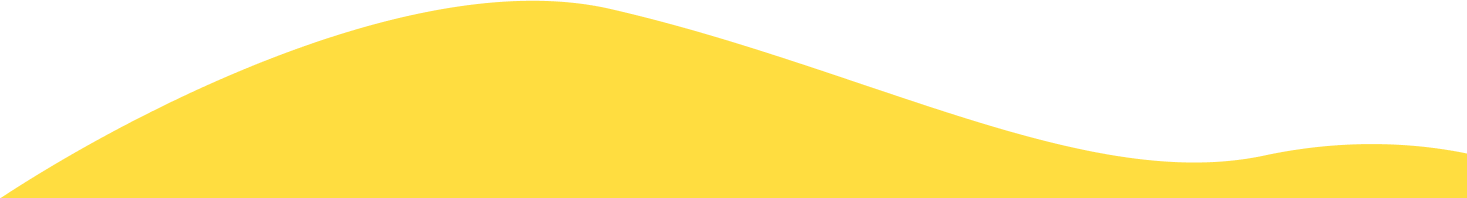
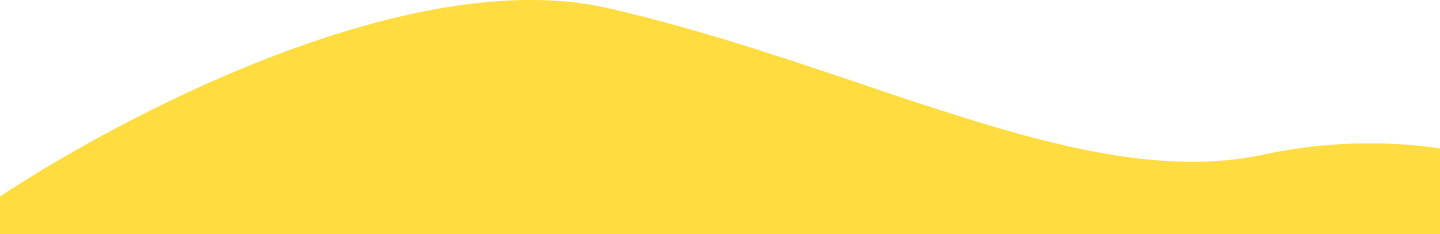
Header social media

diff --git a/src/components/SocialMediaIcons.js b/src/components/SocialMediaIcons.js
@@ -1,0 +1,38 @@
+import React, { Component } from 'react'
+
+import FacebookIcon from "../images/social_media/facebook-icon.svg"
+import InstagramIcon from "../images/social_media/instagram-icon.svg"
+import LinkedInIcon from "../images/social_media/linkedin-icon.svg"
+import TwitterIcon from "../images/social_media/twitter-icon.svg"
+
+class SocialMediaIcons extends Component {
+    render() {
+        return (
+            <ul id="social-media-icons">
+                <li>
+                    <a href="https://www.facebook.com/hellolamppost/" target="_blank" rel="noopener noreferrer">
+                        <img src={FacebookIcon} alt="Facebook"/>
+                    </a>
+                </li>
+                <li>
+                    <a href="https://www.instagram.com/hellolamppost_/" target="_blank" rel="noopener noreferrer">
+                        <img src={InstagramIcon} alt="Instagram"/>
+                    </a>
+                </li>
+                <li>
+                    <a href="https://www.linkedin.com/company/hello-lamp-post/" target="_blank" rel="noopener noreferrer">
+                        <img src={LinkedInIcon} alt="LinkedIn"/>
+                    </a>
+                </li>
+                <li>
+                    <a href="https://twitter.com/hellolamppost_" target="_blank" rel="noopener noreferrer">
+                        <img src={TwitterIcon} alt="Twitter"/>
+                    </a>
+                </li>
+            </ul>
+        )
+    }
+}
+
+
+export default SocialMediaIcons

diff --git a/src/styles/header.scss b/src/styles/header.scss
@@ -4,4 +4,32 @@ header{
     background: #FFFFFF;
     position: absolute;
     z-index: 1000;
+    display: flex;
+        align-items: center;
+
+    .logo {
+        display: inline-block;
+        padding-left: 30px;
+        img {
+            height: 50px;
+        }
+    }
+
+    #social-media-icons {
+        position: absolute;
+        right: 0;
+        padding: 0;
+        padding-right: 30px;
+        list-style: none;
+        display: flex;
+        margin: 0;
+        
+        li {
+            margin: 0 15px;
+        }
+
+        :last-of-type {
+            margin-right: 0;
+        }
+    }
 }

diff --git a/src/styles/above-fold.scss b/src/styles/above-fold.scss
@@ -12,7 +12,15 @@
         position: relative;
     }
 
+    .image-holder {
+        img {
+            max-width: 125px;
+        }
+    }
+
     .text-holder {
+        width: 70%;
+        margin: 0 auto;
         h1{
             font-size: 3em;
         }
@@ -27,10 +35,10 @@
 .above-fold:before {
     content: '';
     width: 100%;
-    height: 520px;
+    height: 100vh;
     background: url("../images/top-page-psuedo.png");
     background-repeat: no-repeat;
-    background-size: contain;
+    background-size: cover;
     position: absolute;
     top: 0;
 }

diff --git a/src/styles/data-section.scss b/src/styles/data-section.scss
@@ -26,20 +26,19 @@
 .light-bg:before {
     content:'';
     background: url("../images/before-bg.png");
-    background-size: fill;
-    background-repeat: no-repeat;
+    background-size: cover;
     width: 100%;
-    height: 200px;
+    height: 250px;
     position: absolute;
-    top:-198px;
-
+    top: -247px;
 }
+
+
 
 .light-bg:after {
     content:'';
     background: url("../images/after-bg.png");
-    background-size: fill;
-    background-repeat: no-repeat;
+    background-size: cover;
     width: 100%;
     height: 200px;
     position: absolute;

diff --git a/src/styles/contact.scss b/src/styles/contact.scss
@@ -2,11 +2,28 @@
     height: 50vh;
     display: flex;
     align-items: center;
+
+    .text-holder {
+        width: 45%;
+
+        p {
+            padding-bottom: 30px;
+        }
+    }
+}
+
+
+@media only screen and (max-width: 768px){
+    .contact {
+        .text-holder {
+            width: 100%;
+        }
+    }
 }
 
 footer {
     font-size: 0.75em;
-    background: $Blue;
+    background: $Black;
     padding: 10px;
     color: #FFFFFF;
     text-align: right;

diff --git a/src/pages/index.js b/src/pages/index.js
@@ -117,7 +117,7 @@ const IndexPage = () => (
     <div className="container contact">
       <div className="text-holder">
         <h1>Get In Touch</h1>
-        <p>Send us a message</p>
+        <p>We are always happy to hear from you whether you’re looking for more info or to collaborate with us. Don't hesitate to drop us a message!</p>
         <div className="blue-btn">
           <span>Email Us</span>
         </div>

diff --git a/src/components/header.js b/src/components/header.js
@@ -2,9 +2,15 @@ import { Link } from "gatsby"
 import PropTypes from "prop-types"
 import React from "react"
 
+import Logo from "../images/hellolamppost_logo.svg"
+import SocialMedia from "./SocialMediaIcons"
+
 const Header = ({ siteTitle }) => (
   <header>
-    
+    <div className="logo">
+      <img src={Logo} alt="Hello Lamp Post"/>
+    </div>
+    <SocialMedia/>
   </header>
 )
 

diff --git a/src/components/GoogleMap.js b/src/components/GoogleMap.js
@@ -5,9 +5,9 @@ class GoogleMap extends Component {
     state ={
         visible: false,
         viewport: {
-            latitude:51.528308,
-            longitude:-0.3817765,
-            zoom: 2
+            latitude:49.2624379,
+            longitude:-123.2488843,
+            zoom: 15
         }
     }
 

diff --git a/src/styles/components/map.scss b/src/styles/components/map.scss
@@ -11,4 +11,9 @@
         right: 15px;
         top: 15px;
     }
+
+    .mapboxgl-ctrl-logo, .mapboxgl-ctrl-attrib-inner{
+        display: none;
+    }
+    
 }

diff --git a/src/styles/components/blue-btn.scss b/src/styles/components/blue-btn.scss
@@ -10,7 +10,6 @@
     span {
         color: #FFFFFF;
         font-weight: 700;
-        letter-spacing: 1.5px;
     }
 
 }

diff --git a/README.md b/README.md
@@ -1,28 +1,5 @@
 <!-- AUTO-GENERATED-CONTENT:START (STARTER) -->
 <p align="center">
-  <a href="https://www.gatsbyjs.org">
-    <img alt="Gatsby" src="https://www.gatsbyjs.org/monogram.svg" width="60" />
-  </a>
-</p>
-<h1 align="center">
-  Gatsby's default starter
-</h1>
-
-Kick off your project with this default boilerplate. This starter ships with the main Gatsby configuration files you might need to get up and running blazing fast with the blazing fast app generator for React.
-
-_Have another more specific idea? You may want to check out our vibrant collection of [official and community-created starters](https://www.gatsbyjs.org/docs/gatsby-starters/)._
-
-## 🚀 Quick start
-
-1.  **Create a Gatsby site.**
-
-    Use the Gatsby CLI to create a new site, specifying the default starter.
-
-    ```shell
-    # create a new Gatsby site using the default starter
-    gatsby new my-default-starter https://github.com/gatsbyjs/gatsby-starter-default
-    ```
-
 1.  **Start developing.**
 
     Navigate into your new site’s directory and start it up.
@@ -82,13 +59,6 @@ A quick look at the top-level files and directories you'll see in a Gatsby proje
 
 12. **`README.md`**: A text file containing useful reference information about your project.
 
-## 🎓 Learning Gatsby
-
-Looking for more guidance? Full documentation for Gatsby lives [on the website](https://www.gatsbyjs.org/). Here are some places to start:
-
-- **For most developers, we recommend starting with our [in-depth tutorial for creating a site with Gatsby](https://www.gatsbyjs.org/tutorial/).** It starts with zero assumptions about your level of ability and walks through every step of the process.
-
-- **To dive straight into code samples, head [to our documentation](https://www.gatsbyjs.org/docs/).** In particular, check out the _Guides_, _API Reference_, and _Advanced Tutorials_ sections in the sidebar.
 
 ## 💫 Deploy
 
